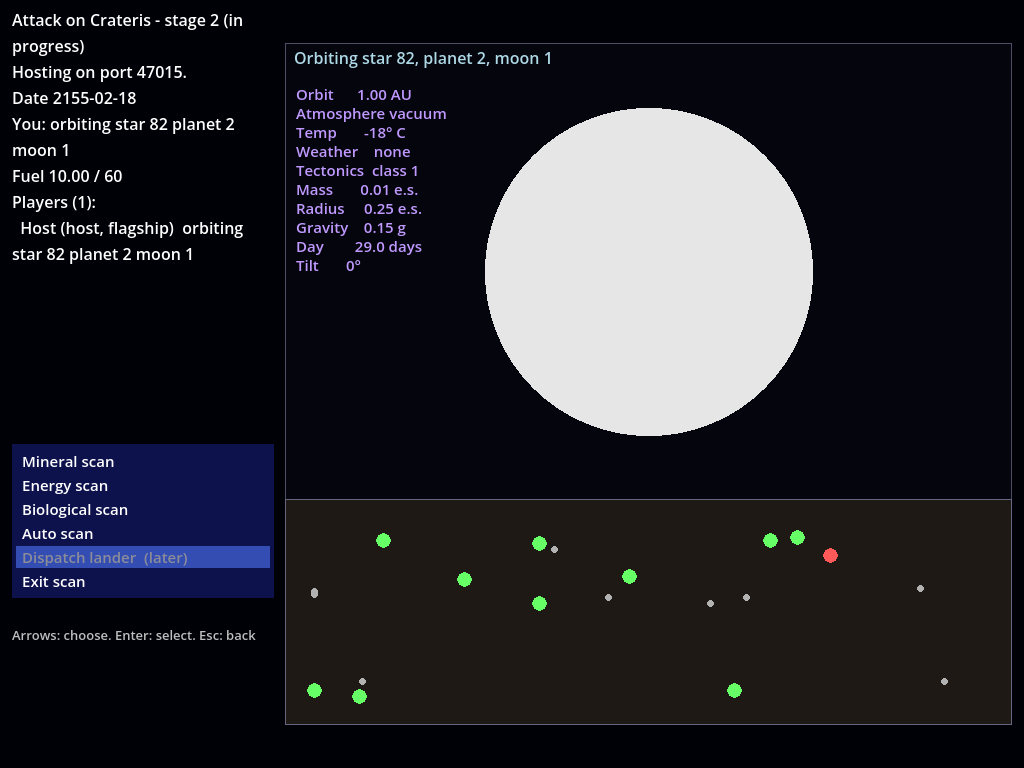
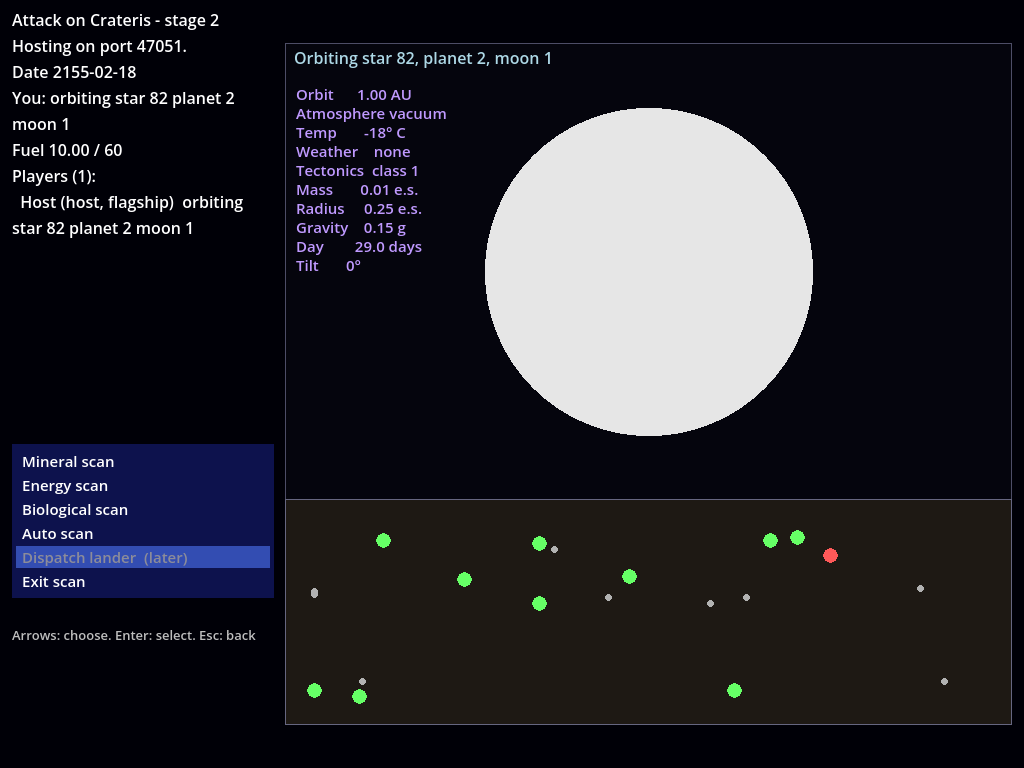
Stage 2 item 11: docs; stage 2 built
docs/how-to-try/stage-2.md rewritten as the stage's guide: a solo
walkthrough (Sol, Earth, the Moon, scanning, back to hyperspace),
playing with friends, what each test checks, known limits and bug
reports. README, design build order, plan status, porting inventory,
differences change history and the UQM data reference brought up to
date. Screenshots retaken with the final build.

Claude-Session: https://claude.ai/code/session_01YAQcX7aN8Y6nmi9VGRzKqg

Changed region(s): [[0.0, 0.0312, 0.25, 0.3438], [0.2188, 0.0, 0.25, 0.0312]]

diff --git a/game/scripts/Main.cs b/game/scripts/Main.cs
@@ -554,7 +554,7 @@ public partial class Main : Node2D
 
     private void UpdateHud()
     {
-        var lines = new List<string> { "Attack on Crateris - stage 2 (in progress)", _status };
+        var lines = new List<string> { "Attack on Crateris - stage 2", _status };
         if (_snapshot != null)
         {
             lines.Add($"Date {_snapshot.Year:D4}-{_snapshot.Month:D2}-{_snapshot.Day:D2}");

diff --git a/docs/how-to-try/stage-2.md b/docs/how-to-try/stage-2.md
@@ -1,60 +1,75 @@
-# How to try it: stage 2, solar systems and planets (in progress)
+# How to try it: stage 2, solar systems and planets
 
-Stage 2 is being built in the order of `docs/plans/stage-2.md`. This page grows with it.
+Stage 2 adds star systems. Fly from hyperspace into any of the 502 stars, around its planets and moons, into orbit, and back out, alone or with friends. Every planet and moon, each world's planet report and its mineral, energy and life nodes are generated from the star's seed exactly as UQM 0.8.0 generates them. The plan, with every decision, is `docs/plans/stage-2.md`.
+
+There's still no UQM content (the first-run download is the next stage), so the drawing is a placeholder: worlds are plain circles in a colour for their kind, the planet report's labels are our own wording, and scan dots are coloured circles. Positions, sizes, orbit colours, the menus and the timing of the scan are UQM's.
 
 ![Orbiting Earth's Moon after an auto scan: the planet report, and the Moon's minerals (small dots), its one energy node (red) and the 10 Brainbox Bulldozers (green)](../screenshots/stage2-orbit-scan.png)
 
-## So far: every star system, generated as UQM does it
+## Set up
 
-Items 1 to 10 are built: the system random number generator; the generation of every system's planets, moons and planet data, including the special systems (Sol, Spathiwa, the Chmmr, the Sa-Matra and the rest); entering orbit, which gives a world's planet report (the numbers on UQM's orbit screen) and its mineral, energy and life nodes; entering and leaving systems from hyperspace; flying inside a system (zooming, inner systems, orbit); the shared state of planets (which nodes have been taken), kept in the host save; all of it running in the game for every player (item 9); and the views (item 10): the outer and inner system views and the orbit screen with UQM's orbit and scan menus.
-
-The drawings are placeholders until the content stage brings UQM's images and words: worlds are plain circles in a colour for their kind, the planet report's labels are our own wording, and the scan dots are coloured circles. Positions, sizes, colours of the orbits and the timing of the scan are UQM's.
-
-Set up and build as for stage 1 (`docs/how-to-try/stage-1.md`), then:
+As for stage 1 (`docs/how-to-try/stage-1.md`): install the toolchain once, then
 
 ```
-dotnet test --filter StarSystemTests   # systems against UQM: 3 tests
-dotnet test --filter SurfaceTests      # orbit, report and nodes against UQM: 6 tests
-dotnet test --filter SystemTransitionTests   # entering and leaving systems: 9 tests
-dotnet test --filter IpFlightTests    # flight inside systems: 10 tests
-dotnet test --filter PlanetWorldStateTests   # taken nodes: 15 tests
-dotnet test --filter ActivityTests    # hyperspace, systems and orbit in the game: 15 tests
-dotnet test --filter SystemLayoutTests # the system views' layout against UQM: 3 tests
-dotnet test --filter OrbitMenuTests    # orbit and scan menus, the scan: 10 tests
-dotnet test --filter SmoothedMotionTests     # ships in systems drawn moving evenly: 4 tests
-dotnet test                            # everything: 108 tests
-python3 tools/test_network.py          # real host and guests: a guest joins while the host is in orbit, the host scans and leaves
+dotnet build game/Crateris.Game.csproj
+godot --headless --import --path game
 ```
 
-`EveryStarSystemMatchesUqm` generates all 502 systems and compares every planet and moon (type, orbit, position, seed, number of moons) and every world's planet data (temperature, gravity, tectonics, weather, atmosphere, rotation, tilt and so on) with what UQM's own code produces. If anything differs, the failure lists the star, the world and the value.
+## Run the tests
 
-`EveryWorldsOrbitAndNodesMatchUqm` enters orbit around all 3,806 worlds and compares the planet report, the scan seeds, every node (about 32,000) and the orbit screen's text with UQM's own code. `EarthsReportReadsAsInUqm` checks Earth reads 1.00 a.u., 1.00 atm, 22° c, weather and tectonics class 2, 1.00 Earth mass, radius and gravity, a 1.00-day day and 23° tilt, as on UQM's orbit screen. `SolHasItsStoryNodes` checks a few you'd recognise: Earth's real report values and its shield (no nodes), the Moon base with its 10 Brainbox Bulldozers, and Fwiffo's spot on Pluto.
+```
+dotnet test                                    # 108 core tests
+python3 tools/test_network.py                  # real host and guests, about 30 s
+python3 -m unittest discover -s tools/extract  # data checks
+```
 
-`SystemTransitionTests` flies a ship into Sol, checks it arrives where UQM puts it (bottom middle of the outer system, facing up), then leaves and checks it comes out on the star, keeps its heading, doesn't fall straight back in, and can enter again after flying clear and turning round.
+What should happen: `dotnet test` reports 108 passed. The network test prints `ok` lines ending in "all network checks passed"; its last part has a guest join while the host orbits the Moon, the host auto-scan it (9 mineral, 1 energy and 10 life nodes) and leave orbit through the menu.
 
-`IpFlightTests` replays eight flights recorded from UQM's own code, frame by frame: in Sol, flying to Earth and into orbit there, then to Jupiter; to Mercury and Pluto in a ship with no thrusters or turning jets; to Saturn in a fast ship; and five other systems. Each frame's facing, speed, position, zoom and events must match.
+## Play it
 
-`PlanetWorldStateTests` takes nodes on the Moon and checks they're gone from what's left on its surface for every player, survive a save and load, and that older saves and bad worlds in a save are handled.
+### Keys
 
-`EverySystemIsLaidOutAsUqmDrawsIt` lays out all 502 systems at every zoom, and every planet's inner view with its moons, and compares each orbit ellipse, world position and world size with what UQM's own drawing code computes.
+- **Flying** (hyperspace and systems): left and right turn, up thrusts.
+- **In orbit:** up and down (or left and right) move through the menu, Enter or Space selects, Esc or Backspace goes back.
 
-`OrbitMenuTests` works the orbit menu as UQM's PC menus do (the cursor wraps round; Scan opens the scan menu on Auto scan; Navigate leaves orbit; Starmap, the manifest, the game menu and the lander say they come later), checks Earth's shield refuses scans and Jupiter refuses the lander, and checks the scan: drawn line by line in 1.7 seconds a scan type (the first line after one wait, as in UQM), each node flashing as the line passes it, the auto scan doing all three and then moving to Dispatch lander, a key finishing the scan being drawn, and a scan showing only what's left, with nodes a friend takes disappearing.
+### Solo: Sol, Earth and the Moon
 
-## Try it in the game
+Start a new game as host (`godot --path game`, or Play in the editor). Delete `host-save.json` in Godot's user folder first if you want a new game rather than your saved one (`~/.local/share/godot/app_userdata/Attack on Crateris/` on Linux).
 
-Build as for stage 1, then start a host already in orbit round Earth's Moon, and a guest:
+1. You start in hyperspace on Sol. Thrust away for a second, turn round and fly back onto Sol. You arrive at the bottom middle of Sol's outer view, facing up: the sun in the middle, the nine planets on their orbits (coloured by temperature, blue for cold to orange for hot), as in UQM. The top-left of the system screen says "Star 82" and the zoom.
+2. Fly in towards the sun. The view zooms in as you get closer (zoom 2x, 4x, 8x) and out as you leave, as UQM's does.
+3. Fly into Earth, the third planet. You're in Earth's inner system: Earth in the middle with a shield ring, the arc of its own orbit, the starbase (grey square) and the Moon.
+4. Fly into the Moon. You're in orbit: the orbit screen shows the Moon and the menu on the left.
+5. Choose **Scan**. The planet report appears (orbit 1.00 AU, vacuum, -18° C and so on) above the scan map, and the cursor is on **Auto scan**. Select it: a mineral, then an energy, then a biological scan are drawn line by line, each node flashing as the line reaches it. When it's done, the map shows all three kinds and the cursor moves to **Dispatch lander**, which says it comes in a later stage (the lander is stage 2b). Any key during a scan finishes the one being drawn.
+6. Esc (or **Exit scan**) closes the scan menu. Choose **Scan** again and what you found is still shown; leave orbit and come back and you have to scan again, as in UQM.
+7. **Navigate** leaves orbit: you're back in the inner system beside the Moon. Fly away from Earth to the outer view, and off the edge of the outer view (zoomed right out) to come back to hyperspace on Sol.
+
+Things to try on the way:
+
+- Orbit Earth itself: scanning is refused, because Earth is shielded. Jupiter (the fifth planet) can be scanned but the lander can't go down to a gas giant.
+- Fly into the starbase: nothing happens yet, the ship stays beside it. Talking to the starbase is stage 3 (`docs/differences.md` row 27).
+- Starmap, Manifest (Cargo, Devices, Roster) and Game menu are in the orbit menu but say they come later.
+- Pluto, the outermost planet, has Fwiffo's spot: an energy node from the start.
+- Any star works. Every system's layout, report and nodes are UQM's.
+
+### With friends
+
+Start a host already in orbit round Earth's Moon, and a guest (on the same machine, or another with the host's address):
 
 ```
 godot --path game -- --host --name Host --start-orbit 82:2:1
 godot --path game -- --join 127.0.0.1 --name Guest --id guest-1
 ```
 
-On the host you see the orbit screen. In the menu on the left, arrows move, Enter selects and Esc goes back:
+What should happen:
 
-- **Scan** opens the scan menu with the planet report. **Auto scan** (where the cursor starts) scans for minerals, energy and life in turn, each drawn line by line; press any key to finish the one being drawn. Or pick one of the three scans. **Exit scan** or Esc goes back.
-- **Navigate** leaves orbit. The others (Starmap, Manifest, Game menu, Dispatch lander) say they come in a later stage. Earth (`82:2`) has a shield, so scanning it is refused.
+- The guest sees "Undocking from Host's flagship..." and appears in Earth's inner system, next to the host's world. The host shows as a diamond marker with their name at the Moon ("Host (orbit)").
+- The host scans the Moon from the orbit screen while the guest flies around. Each player's orbit screen and scans are their own; nothing interrupts the others.
+- When the host chooses **Navigate**, both ships fly in Earth's inner system and see each other, named, moving smoothly.
+- Players in a different view (the other in the outer view, or in another planet's inner system, or in hyperspace) aren't drawn, except players in orbit, who show as a marker at their world in the outer view.
+- Close the host's window: the game is saved with every ship where it was, in hyperspace, in a system or in orbit. Start the host again and the guest can rejoin there.
 
-The guest joins in Earth's inner system, next to the host's world: Earth in the middle with the arc of its orbit, the starbase (grey square) and the Moon, and the host as a marker at the Moon. When the host leaves orbit, both ships fly in the inner system. Fly away from Earth to reach the outer view of Sol, and off the edge of the screen (through the outer view's zooms) to come back to hyperspace on Sol. Fly into a world to orbit it.
+`--start-orbit star:planet[:moon]` puts the host in orbit at start, in a new or loaded game. `82` is Sol; planets count from 0 (Earth is 2, its Moon `82:2:1`, the starbase `82:2:0`). A world that can't be orbited (a starbase, say) is refused with a message in the top-left.
 
 ![The guest in Earth's inner system, just undocked; the host's ship has left orbit](../screenshots/stage2-inner-system.png)
 
@@ -62,9 +77,30 @@ The guest joins in Earth's inner system, next to the host's world: Earth in the 
 
 ![An energy scan being drawn on the Moon](../screenshots/stage2-scan-sweep.png)
 
-`82` is Sol's star number; planets count from 0 (Earth is 2, its Moon is `82:2:1`, the starbase `82:2:0`). `--start-orbit` also works with a loaded save; a world that can't be orbited (a starbase, say) is refused with a message in the top-left.
+## What the tests check
 
-The screenshots were taken under a virtual display, as the checks for this item:
+Each of these runs on its own with `dotnet test --filter NAME`.
+
+| Tests | Count | What |
+| --- | --- | --- |
+| `StarSystemTests` | 3 | All 502 systems against UQM: every planet and moon (type, orbit, position, seed, moons) and every world's planet data |
+| `SurfaceTests` | 6 | Orbit round all 3,806 worlds against UQM: the report, scan seeds, every node (about 32,000) and the orbit screen's text; Earth's report; Sol's story nodes |
+| `SystemTransitionTests` | 9 | Entering a system where UQM puts you, leaving onto the star with your heading, not falling straight back in |
+| `IpFlightTests` | 10 | Eight flights recorded from UQM's own code (14,000 frames), replayed frame by frame |
+| `PlanetWorldStateTests` | 15 | Taken nodes: gone for every player, saved, older saves and bad saves handled |
+| `ActivityTests` | 15 | Hyperspace, systems and orbit in the running game: 30 system frames a second, joining in systems, saves, thrust shown only while thrusting |
+| `SystemLayoutTests` | 3 | The views' layout against UQM's own drawing code: every star at every zoom, every inner view |
+| `OrbitMenuTests` | 10 | UQM's PC orbit and scan menus, the scan's timing and flashing, auto scan, shields and gas giants, scans showing only what's left |
+| `SmoothedMotionTests` | 4 | Ships in systems drawn moving evenly, even with snapshots arriving unevenly |
+
+The UQM references (`tests/golden/`) can be recorded again from the UQM source (needs gcc and a checkout of UQM 0.8.0):
+
+```
+python3 tools/extract/golden_uqm.py --uqm ../uqm-0.8.0/sc2
+git diff --stat tests/golden   # should show no changes
+```
+
+The screenshots were taken under a virtual display, the same way you can:
 
 ```
 xvfb-run -a -s "-screen 0 1024x768x24" godot --rendering-driver opengl3 --path game -- \
@@ -72,11 +108,17 @@ xvfb-run -a -s "-screen 0 1024x768x24" godot --rendering-driver opengl3 --path g
   --script "none:10,select:2,select:2,none:200" --quit-after 230 --screenshot scan.png
 ```
 
-`--script` drives the menu with `up`, `down`, `select` and `cancel` (each pressed once as its step starts) as well as the flight keys.
+`--script` drives the orbit menu with `up`, `down`, `select` and `cancel` (each pressed once as its step starts) as well as the flight keys (`left`, `right`, `thrust`, `action`, `none`).
 
-To record the reference again from the UQM source (needs gcc and a checkout of UQM 0.8.0):
+## Known limits of stage 2
 
-```
-python3 tools/extract/golden_uqm.py --uqm ../uqm-0.8.0/sc2
-git diff --stat tests/golden   # should show no changes
-```
+- **No UQM content:** placeholder drawing, no names (stars and planets are numbers), no sound. The content stage comes next.
+- **No landing:** Dispatch lander says it comes later; landing and mining are stage 2b. Nodes can't be taken yet, though what's taken is already shared and saved.
+- **No aliens:** systems are empty of alien ships until conversations (stage 3) and combat (stage 4), including Fwiffo at Pluto. Starbases, the Sa-Matra, the Umgah homeworld and the Slylandro gas giant can't be orbited.
+- **Contact uses circles** instead of UQM's sprite masks until the content stage, so a ship may touch a star or world a frame or two earlier or later than in UQM (`docs/differences.md` rows 23 to 25). There's no star-entry animation yet (row 24).
+- **No autopilot or star map**, and Starmap, Manifest and Game menu in orbit say they come later.
+- **Placeholder undocking scene and escort,** as in stage 1.
+
+## Bugs
+
+Send the error text, a screenshot and what you expected. The host's and guest's terminals print what they did, including each player's activity ("Saw ... Orbit at frame ..."), scans and leaving orbit. Add `--report FILE` to get it as JSON.

diff --git a/docs/porting-inventory.md b/docs/porting-inventory.md
@@ -80,7 +80,7 @@ These turn up in almost every row. Remove them once, in the core, not system by 
 | Planet type table, minerals | `src/uqm/plandata.c` (`planet_array[NUMBER_OF_PLANET_TYPES]`, `element_array`, `MINERAL_DEPOSIT`), `planets/elemdata.h` | Data | Port as-is | Extracted to `data/planet-types.json` and `data/elements.json` |
 | Special systems | `src/uqm/planets/generate/gen*.c`: `genand` (Androsynth), `genburv` (Burvixese), `genchmmr`, `gencol` (colony), `gendru`, `genilw`, `genmel` (Melnorme), `genmyc`, `genorz`, `genpet` (Talking Pet), `genpku`, `genrain` (rainbow worlds), `gensam` (Sa-Matra), `genshof`, `gensly`, `gensol` (Sol), `genspa`, `gensup`, `gensyr`, `genthrad`, `gentrap` (Trappist), `genutw`, `genvault`, `genvux`, `genwreck`, `genyeh`, `genzfpscout`, `genzoq` | Both | Adapt | 28 special generators, plus `gendefault.c` for ordinary systems. They mix data (special planets, artifacts) with story hooks (`GenerateFunctions` in `planets/generate.h`: `generatePlanets`, `generateOrbital`, `generateLife`, `pickupEnergy`, …). Story hooks set world state. Some start story events (e.g. `genpet.c` skips time with `MoveGameClockDays`). **Layouts ported (stage 2)** in `SystemGenerator`: planets, moons, types and orbits, with the two story flags they read (`CHMMR_UNLEASHED`, `SPATHI_SHIELDED_SELVES`) as `SystemStoryState`. Story hooks come in stage 3 |
 | Orbit and scanning | `src/uqm/planets/scan.c`, `planets.c`, `report.c` (planet report text), `surface.c`, the generators' `generateOrbital`, `generateMinerals`, `generateEnergy`, `generateLife` | Logic | Adapt | Per player. Taken (mined-out) nodes are world state, so a second player sees the first one's work. **Ported (stage 2):** scan seeds, report values and node generation in `src/Crateris.Core/Systems/Surface.cs`, checked against every world recorded from UQM (`tests/golden/world-surfaces.json`). Conversations and pickups come later. The planet report's numbers are ported too (`PlanetReport.cs`, from `PrintCoarseScanPC`), checked against UQM's printed text. Taken nodes are shared world state in `World/PlanetWorldState.cs`, saved in the host save; scans aren't remembered, as in UQM, and always show what's left at that moment. The orbit and scan menus (UQM's PC menus, `DoPlanetOrbit`, `DoScan`) and the line-by-line scan (`ScanPlanet`, `DrawScannedStuff`) are in `Systems/OrbitMenu.cs`, run on each player's own screen; only leaving orbit goes to the host |
-| Planet surface generation | `src/uqm/planets/surface.c`, `gentopo.c` | Logic | Port as-is | Mineral, bio and energy nodes are seeded per planet from `SysGenRNG`, so server sends seeds |
+| Planet surface generation | `src/uqm/planets/surface.c`, `gentopo.c` | Logic | Port as-is | Mineral, bio and energy nodes are seeded per planet from `SysGenRNG`. **Ported (stage 2):** node generation from `surface.c` (`Surface.cs`); the host sends only the star and world, and each client generates the same nodes. The surface maps (`gentopo.c`) are drawn from content and come with the content stage |
 
 ### Lander and mining
 
@@ -158,7 +158,7 @@ Per-race conversation scripts. All are **Both** (tree is code, lines are content
 | Save | `src/uqm/save.c` (`SaveGame`, `SaveGameState`, `SaveSisState`, `SaveShipQueue`, `SaveRaceQueue`, `SaveGroupQueue`, `SaveEncounters`, `SaveEvents`, `SaveClockState`, `SaveStarInfo`, `SaveGroups`, `PrepareSummary`) | Logic | Redesign | Host save holds world state plus every player's state by stable player id, including absent players. New readable format (e.g. JSON). Importing a solo UQM 0.8.0 save: only if cheap; see open question 9 |
 | Load | `src/uqm/load.c`, `load_legacy.c` | Logic | Redesign | Same as save. `load_legacy.c` (pre-0.8 saves) not needed |
 | Game menu and setup | `src/uqm/gameopt.c` (save, load, quit), `setupmenu.c`, `settings.c`, `setup.c`, `menu.c`, `confirm.c` | Logic | Redesign | Godot UI. Add host, join, leave, player list, settings for every open number |
-| HUD and status panel | `src/uqm/status.c`, `sis.c` (SIS frame, fuel, crew, coordinates via `DrawHyperCoords`), `flash.c`, `planets/roster.c`, `cargo.c` | Logic | Adapt | Godot UI showing the player's own ship. Add other players' status |
+| HUD and status panel | `src/uqm/status.c`, `sis.c` (SIS frame, fuel, crew, coordinates via `DrawHyperCoords`), `flash.c`, `planets/roster.c`, `cargo.c` | Logic | Adapt | Godot UI showing the player's own ship. Add other players' status. **Placeholder so far (stages 1 and 2):** a text panel with the date, your place and fuel, and every player's place; the system screen is UQM's 242 x 227 view scaled up |
 | Cutscenes and intro | `src/uqm/intro.c`, `fmv.c`, `credits.c`, `demo.c`, content `slides.*`, 3DO video add-on | Both | Adapt | Client-only. Intro on host start. Story cutscenes are shown to all (story pause) |
 | Pause | `src/uqm/gameinp.c`, `CHECK_PAUSE` activity flag | Logic | Redesign | Only the host can pause; pause freezes everyone, including combat |
 

diff --git a/docs/uqm-data.md b/docs/uqm-data.md
@@ -37,6 +37,7 @@ The first runs 21 checks on the committed files (counts, known values, notices).
 - **`star-systems.json`:** every one of the 502 star systems as UQM generates it at the start of a new game: the sun's seed, every planet and every moon (type, orbit radius, position, seed, number of moons) and each world's planet data (`PLANET_INFO`: temperature, gravity, tectonics, weather, atmosphere and so on), plus `RandomContext` sequences for many seeds. Recorded by `tools/extract/golden/systems.c`, which includes `solarsys.c` and runs UQM's own `LoadSolarSys`, `GenerateMoons`, `FillOrbits` and `DoPlanetaryAnalysis` with every generator in `planets/generate/`. Graphics and strings are stubbed; the game state is all zeros, as in a new game. Planet data is recorded the way the planet report computes it (with the greenhouse bonus); the orbit colour's temperature, computed without it, is recorded too, since the two make different RNG calls.
 - **`world-surfaces.json`:** entering orbit around every world: whether orbit is reached, the three scan seeds, the planet report as the system's `generateOrbital` leaves it, and every mineral, energy and life node (position, element or creature, deposit size). Then the orbit screen's report text as UQM's own `PrintCoarseScanPC` prints it (numbers only: labels and unit words are content strings, empty in the recording). Recorded by the same program in `orbits` mode, which runs each star's own `generateOrbital`, then its `generateMinerals`, `generateEnergy` and `generateLife` node by node as `scan.c` does. Conversations, graphics and the rest are do-nothing stand-ins (`tools/extract/golden/stubs.c`); no alien ships are present and nothing has been picked up, so homeworlds are orbited as when their owners are gone.
 - **`ip-geometry.json`:** the interplanetary screen and zoom constants, where a ship arriving from hyperspace is put, and samples of UQM's conversions between system locations and the screen.
+- **`system-layout.json`:** what UQM's `DrawSystem` would draw for every star: each planet's orbit ellipse, position and image size at each of the outer view's four zooms, and each planet's inner view (the arc of its own orbit, its image size, and its moons' orbits, positions and sizes). Recorded by the same program in `layout` mode, from UQM's own `GetPlanetOrbitRect`, `ValidateOrbits`, `enterInnerSystem` and `ValidateInnerOrbits`.
 - **`ip-flight.json`:** eight interplanetary flights, frame by frame (3 in Sol, 5 in other systems; about 14,000 frames), recorded by running UQM's own flight code in the order `IP_frame` runs it, with `ipdisp.c` linked for the flagship's movement. A small test pilot in the recording program chooses the input (turn towards a goal planet or moon, thrust when facing it); the engine's tests replay that input. Sprite intersection uses the engine's provisional circles (`docs/differences.md` row 25), so only the circle sizes aren't UQM's.
 
 ```
@@ -89,11 +90,13 @@ From `planet_array` in `src/uqm/plandata.c` (type `PlanetFrame`, `planets/planda
 
 Individual planets come from `planets/plangen.c`, `calc.c`, `gentopo.c` and `orbits.c` (code). `PLANET_INFO` (`plandata.h`: tilt, tectonics, weather, gravity, temperature and so on) is computed per planet by `calc.c`, not stored.
 
-**Used by:** solar systems and planets (stage 2), lander and mining.
+**Used by:** solar systems and planets (stage 2: sizes, densities, elements and the planet report; `color` picks the placeholder colour worlds are drawn in until the content stage), lander and mining.
 
 ### `elements.json`: minerals
 
 From `element_array` in `src/uqm/plandata.c` and the enums in `src/uqm/planets/elemdata.h`. 133 elements, each in one of 8 categories (`COMMON` to `EXOTIC`). `worth` is the starting resource-unit value per unit of cargo in each category, set in `InitGameStructures` (`globdata.c`).
+
+**Used by:** solar systems and planets (stage 2: element ids of mineral deposits, and the category, which picks a mineral dot's colour on the scan map), lander and mining.
 
 ### `lifeforms.json`: creatures
 

diff --git a/docs/plans/stage-2.md b/docs/plans/stage-2.md
@@ -1,6 +1,6 @@
 # Stage 2 plan: solar systems and planets
 
-**Status:** approved by the owner on 2026-11-01, with all six recommendations accepted (see "Decisions"). In progress: items 1 to 10 are built (see "Progress"); item 11 (docs) is left.
+**Status:** approved by the owner on 2026-11-01, with all six recommendations accepted (see "Decisions"). Built: all 11 items are done (see "Progress"). How to try it: `docs/how-to-try/stage-2.md`.
 
 Build order item: "Solar systems and planets from seeds" (`docs/design.md`).
 
@@ -113,7 +113,7 @@ Rough size: items 2, 4 and 6 are the large ones. Everything else is small to med
 | 8. Planet world state | Built | `World/PlanetWorldState.cs` on `GameWorld.Planets`: taken nodes per world as UQM's three 32-bit retrieve masks (`isNodeRetrieved`, `setNodeRetrieved`, `countNodesRetrieved`), and the nodes still on a world. Scans aren't remembered, as in UQM: a scan shows what's left at that moment, so while a friend collects on the surface, each new scan shows fewer nodes (a first version remembered scans; withdrawn, `docs/differences.md` row 26). One for the whole game, so every player sees the same. Saved in the host save (version 3; older saves load with nothing touched); bad worlds in a save are refused (`PlanetWorldStateTests`) |
 | 9. Server activities | Built | `GameWorld`: each player is in hyperspace, a system's outer view, an inner system or orbit (`PlayerShip.Activity`). Flying into a star enters its system; leaving it comes out on the star; touching a world enters orbit and the action key (Enter) leaves it. The world steps at 24 frames a second; players in systems take 30 system frames a second, one or two per world frame. Snapshots carry each ship's activity and system position, and the taken nodes of orbited worlds; clients generate systems themselves from the star. A guest's first join in a system undocks there, and while the host is in orbit next to the host's world. Save version 4 keeps ships in systems and orbit; protocol version 2. `--start-orbit star:planet[:moon]` puts the host in orbit at start, in a new or loaded game (testing). Checked by `ActivityTests` and the network test's new stage 2 phase |
 | 10. Client views | Built | `game/scripts/SystemView.cs`: the outer view (sun, orbit ellipses in UQM's five temperature colours, planets at the ship's zoom) and the inner view (the planet, the arc of its own orbit, its moons), laid out by `Systems/SystemLayout.cs`, which the flight now uses too; every star at every zoom and every inner view match what UQM's own `DrawSystem` would draw (`SystemLayoutTests`, `tests/golden/system-layout.json`). Other players in the same view are drawn like your ship, with names; players in orbit are markers at their world; movement is smoothed (`SmoothedMotion`). The orbit screen (`OrbitView`): the world, UQM's PC orbit menu, and in the scan menu the planet report and the scan map, scanned line by line at UQM's speed with the dots flashing as UQM's do (`Systems/OrbitMenu.cs`, `OrbitMenuTests`). Navigate leaves orbit; entries for later stages say so. Screenshots under a virtual display in `docs/how-to-try/stage-2.md`; the network test now scans the Moon and leaves orbit through the menu |
-| 11. Docs | Not started | |
+| 11. Docs | Built | `docs/how-to-try/stage-2.md` rewritten as the stage's guide (solo walkthrough of Sol, Earth and the Moon, playing with friends, what the tests check, known limits); README, `docs/design.md` (build order), `docs/porting-inventory.md`, `docs/differences.md` (change history) and `docs/uqm-data.md` (references and data used) brought up to date |
 
 How to try what is built so far: `docs/how-to-try/stage-2.md`.
 

diff --git a/README.md b/README.md
@@ -4,7 +4,7 @@ A free engine for drop-in co-op play of The Ur-Quan Masters content, for up to 4
 
 Attack on Crateris is not The Ur-Quan Masters and is not made or endorsed by Toys for Bob, Paul Reiche III, Fred Ford or The Ur-Quan Masters project. It is compatible with The Ur-Quan Masters 0.8.0 content, which the game downloads separately on first run.
 
-**Status:** early development. Stage 1 is built: up to 4 players fly around hyperspace together, joining and leaving at will. See `docs/how-to-try/stage-1.md` to try it and `docs/design.md` for the plan.
+**Status:** early development. Stages 1 and 2 are built: up to 4 players fly around hyperspace together, joining and leaving at will, and into any star system, around its planets and moons, into orbit to read a planet's report and scan it, all generated exactly as UQM generates them. See `docs/how-to-try/stage-1.md` and `docs/how-to-try/stage-2.md` to try them and `docs/design.md` for the plan.
 
 ## License
 

diff --git a/docs/design.md b/docs/design.md
@@ -190,7 +190,7 @@ Cover at least: ships and combat, hyperspace and QuasiSpace, solar systems and p
 ### Build order
 
 1. Headless server with players flying around hyperspace together, joining and leaving at will. **Built** (see `docs/how-to-try/stage-1.md`).
-2. Solar systems and planets from seeds. Plan: `docs/plans/stage-2.md` (approved).
+2. Solar systems and planets from seeds. **Built** (plan: `docs/plans/stage-2.md`; see `docs/how-to-try/stage-2.md`).
    - Content: the first-run content download and a minimal content reader (names, then planet colour maps).
    - 2b. Landing and mining: the lander, creatures, hazards, cargo and the shared landing screen.
 3. Story flags, conversations, dialogue locks, story pauses and the group inventory.

diff --git a/docs/differences.md b/docs/differences.md
@@ -53,6 +53,7 @@ Newest first. Row numbers stay fixed so review notes keep pointing at the right 
 
 | Date | Rows | Change |
 | --- | --- | --- |
+| 2026-11-01 | 23–25, 27 | Stage 2 built. No new differences: the orbit screen, its menus and scans work as UQM's; rows 23 to 25 and 27 stay temporary until the content stage and stage 3 |
 | 2026-11-01 | 14, 27 | Stage 2: joining in a system or while the host is in orbit; worlds that would start a conversation leave the ship in flight until stage 3 |
 | 2026-11-01 | 26 | Withdrawn: scans aren't remembered, as in UQM. A scan shows what's left at that moment, including what a friend has just taken |
 | 2026-11-01 | 26 | Added remembering scans: shared and saved, alongside UQM's taken nodes |
